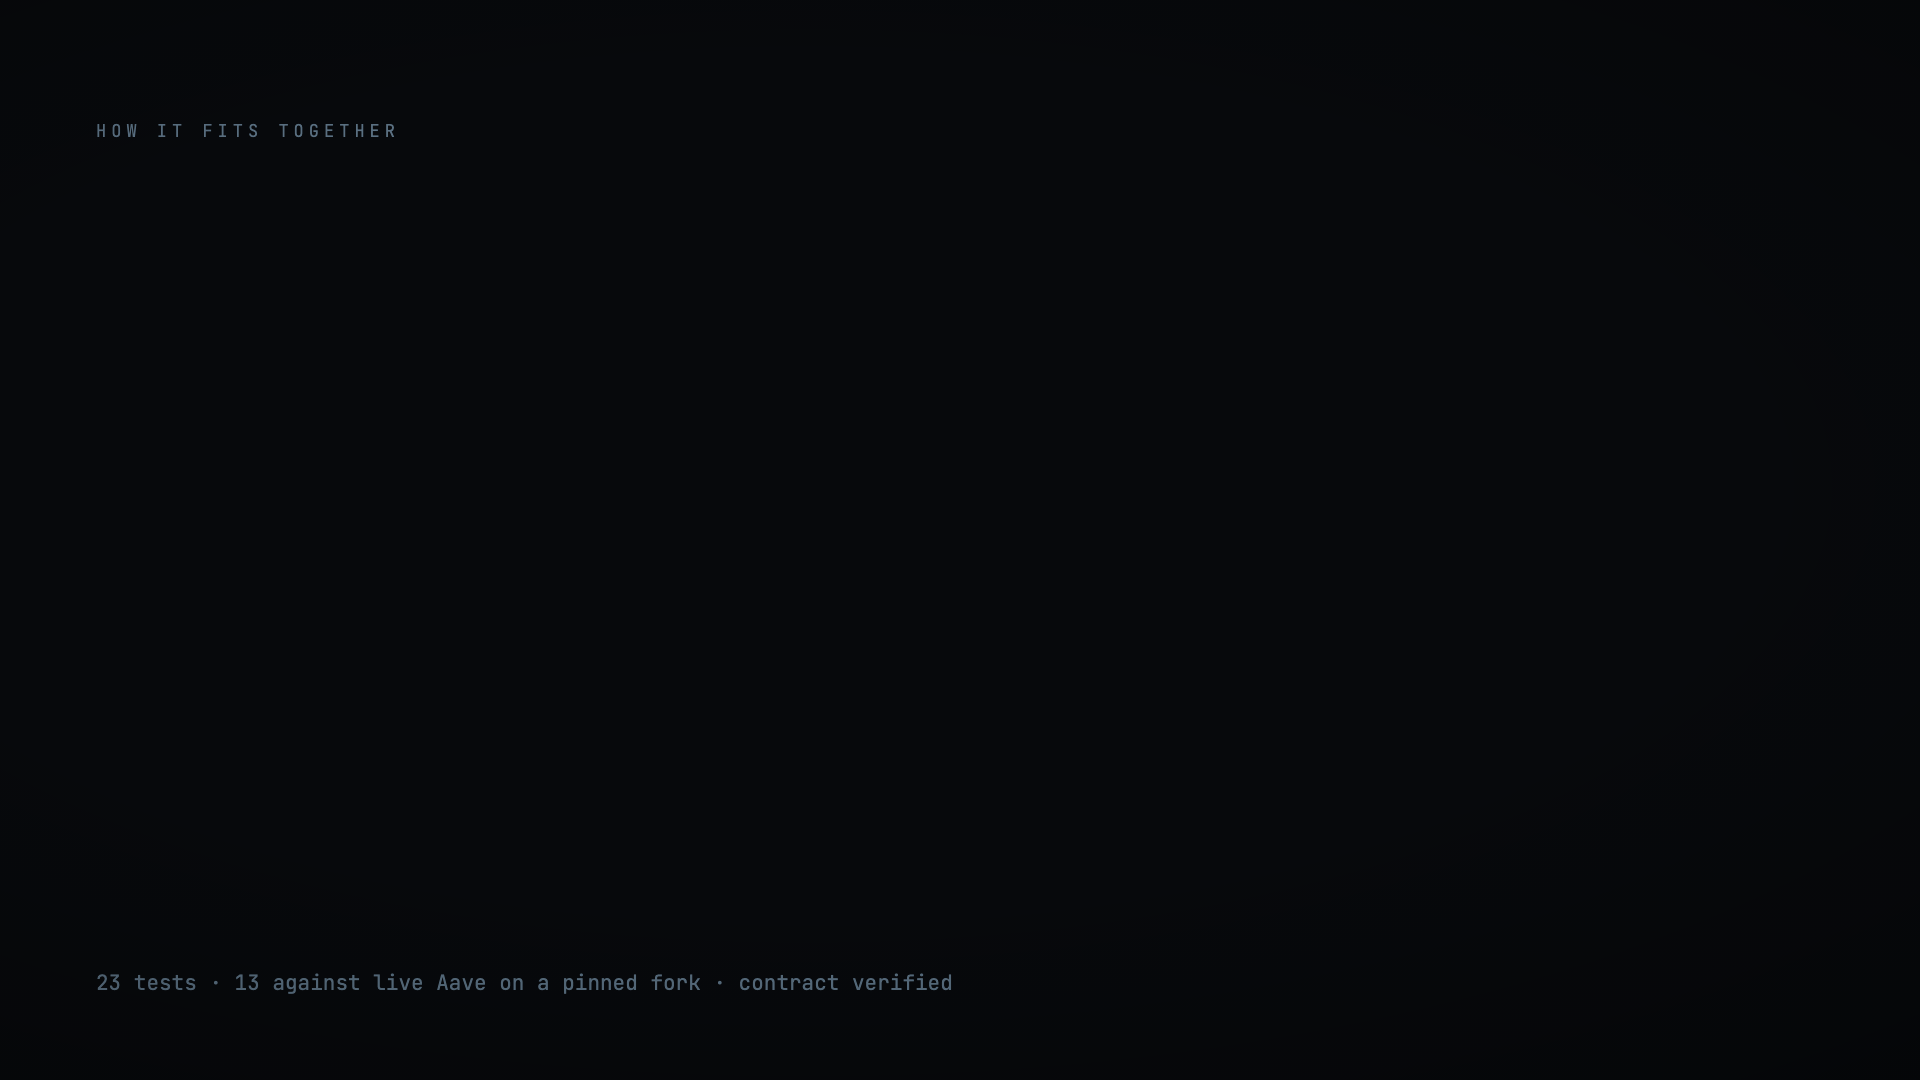
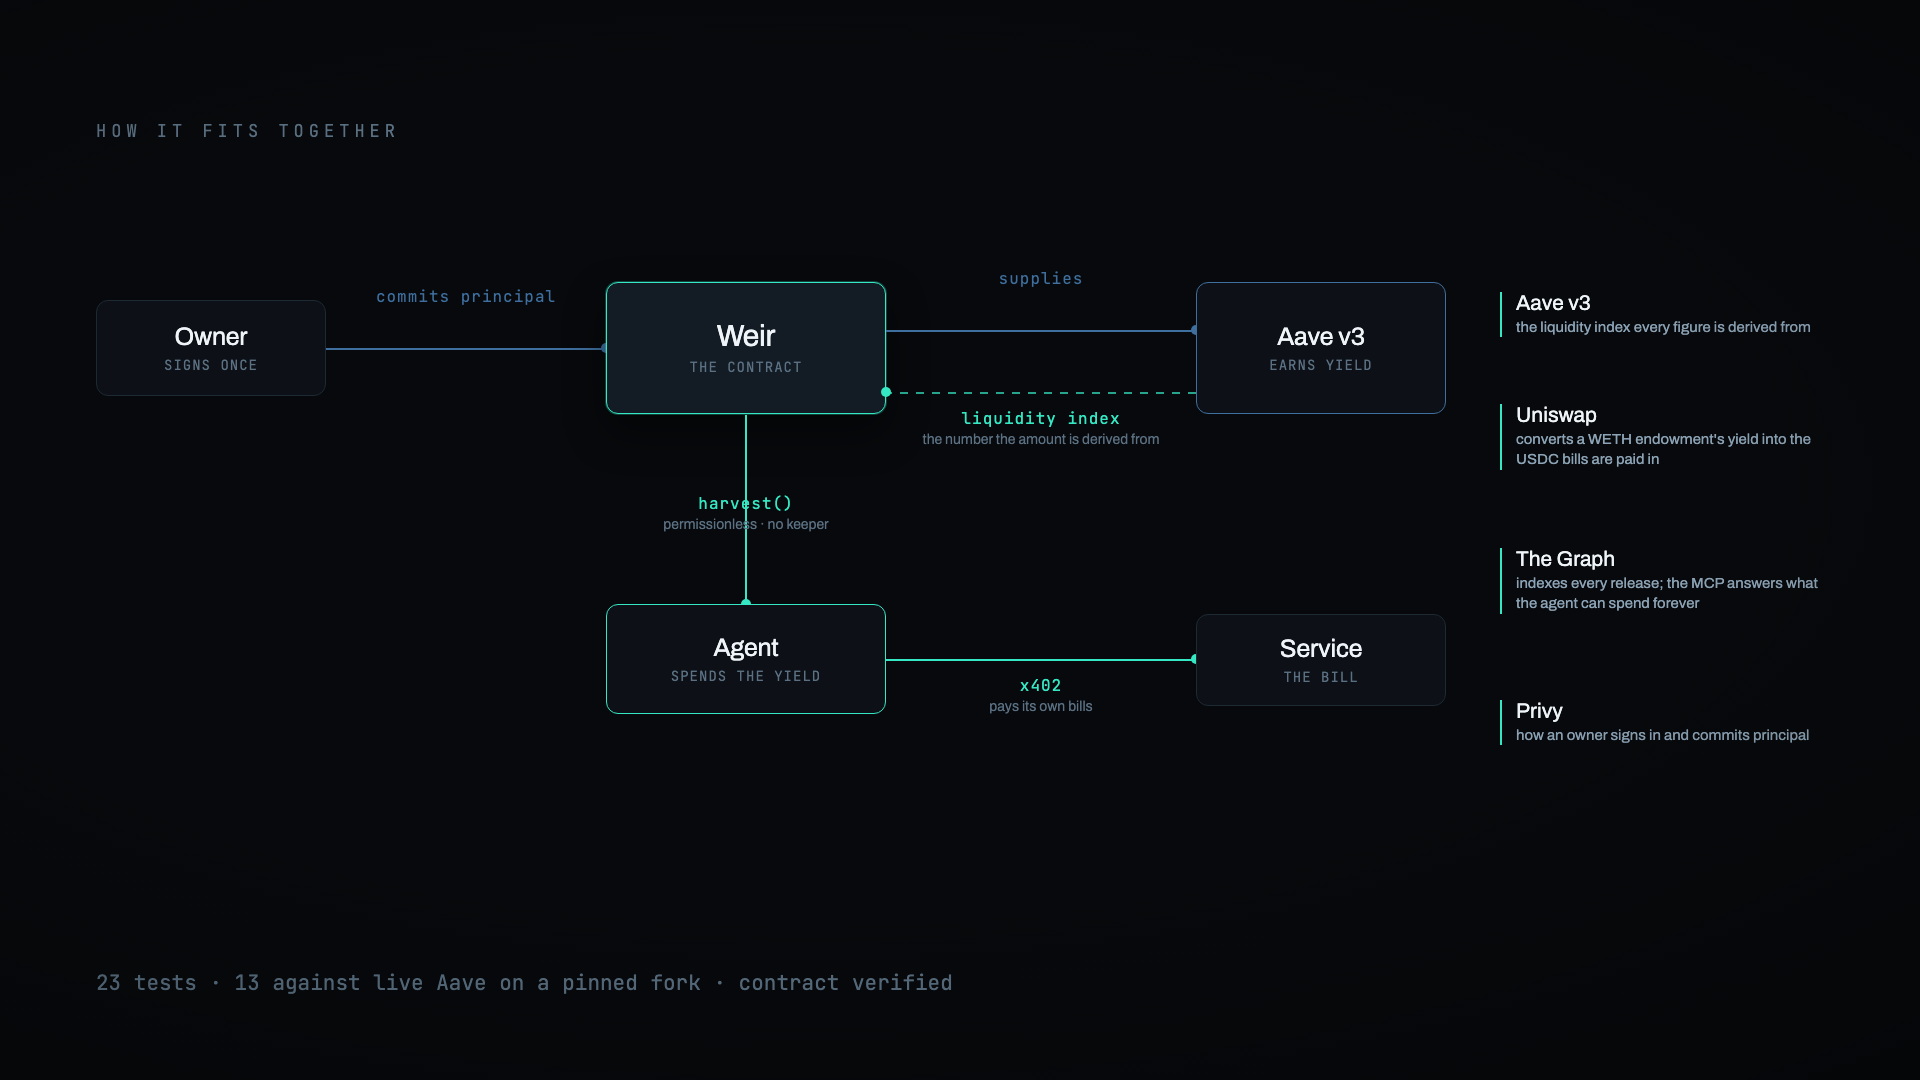
Screenshots: real captures instead of designed cards, and fix the empty one
The architecture image shipped empty. Its elements animate in with springs keyed
off the frame, the composition was registered with durationInFrames 1, and a
still renders frame 0 — where every spring evaluates to zero and the whole
diagram is at opacity 0. The file was 272KB of almost nothing. Fixed by giving
the composition real duration and taking the still at frame 140, after every
stage settles.

The other criticism was the sharper one: three of five were not screenshots.
They were designed cards with serif headlines and explanatory prose, which read
as pitch slides. The data in them was real, but presentation as marketing turns
evidence into a claim.

Replaced with genuine captures. A terminal showing the agent's ledger and the
MCP verdict. A terminal showing cast against the deployed contract, returning
committed 250000.000000, held 250001.654156, accrued 1.654374, harvestable true
— read from Base Sepolia while making the image. A terminal showing forge test,
10 passing including the guarantee fuzzed 256 times. No headlines, no prose, no
persuasion: a terminal drawn as a terminal.

Every line in them is verbatim. The harvestable() call was in the draft before
it had been run, so it was run and it returns true; an unverified line in an
evidence image is the one thing these cannot contain.

Claude-Session: https://claude.ai/code/session_01Mf67sfjXgnfBGs34NPhdP7

diff --git a/video/src/Terminal.tsx b/video/src/Terminal.tsx
@@ -1,0 +1,214 @@
+import React from "react";
+import { AbsoluteFill } from "remotion";
+import { mono } from "./fonts";
+
+/**
+ * A terminal, drawn as a terminal. Every line below is verbatim output from a
+ * command actually run against the live contract, the live subgraph, or the
+ * test suite — nothing is mocked up and nothing is worded for effect. The point
+ * of these images is evidence, so the moment they carry marketing copy they
+ * stop being evidence.
+ */
+
+const T = {
+  bg: "#0b0e11",
+  chrome: "#171b20",
+  edge: "#252b32",
+  fg: "#d6dde4",
+  dim: "#7d8b98",
+  green: "#38d39f",
+  cyan: "#41c5e0",
+  yellow: "#e2b341",
+  blue: "#6aa9e9",
+  magenta: "#c08cf0",
+};
+
+type Line = { t: string; c?: string; b?: boolean };
+
+export const Term: React.FC<{
+  title: string;
+  lines: Line[];
+  w: number;
+  h: number;
+  size?: number;
+}> = ({ title, lines, w, h, size = 19 }) => (
+  <AbsoluteFill style={{ background: "#05070a", alignItems: "center", justifyContent: "center" }}>
+    <div
+      style={{
+        width: w,
+        height: h,
+        background: T.bg,
+        borderRadius: 12,
+        overflow: "hidden",
+        border: `1px solid ${T.edge}`,
+        boxShadow: "0 30px 80px rgba(0,0,0,.6)",
+        display: "flex",
+        flexDirection: "column",
+      }}
+    >
+      <div
+        style={{
+          height: 44,
+          flexShrink: 0,
+          background: T.chrome,
+          borderBottom: `1px solid ${T.edge}`,
+          display: "flex",
+          alignItems: "center",
+          padding: "0 16px",
+          position: "relative",
+        }}
+      >
+        {["#ff5f57", "#febc2e", "#28c840"].map((c) => (
+          <div
+            key={c}
+            style={{ width: 12, height: 12, borderRadius: 6, background: c, marginRight: 8 }}
+          />
+        ))}
+        <div
+          style={{
+            position: "absolute",
+            left: 0,
+            right: 0,
+            textAlign: "center",
+            fontFamily: mono,
+            fontSize: 14,
+            color: T.dim,
+          }}
+        >
+          {title}
+        </div>
+      </div>
+
+      <div
+        style={{
+          flex: 1,
+          padding: "22px 26px",
+          fontFamily: mono,
+          fontSize: size,
+          lineHeight: 1.62,
+          color: T.fg,
+          whiteSpace: "pre",
+          overflow: "hidden",
+        }}
+      >
+        {lines.map((l, i) => (
+          <div key={i} style={{ color: l.c ?? T.fg, fontWeight: l.b ? 700 : 400 }}>
+            {l.t === "" ? " " : l.t}
+          </div>
+        ))}
+      </div>
+    </div>
+  </AbsoluteFill>
+);
+
+/** the shell prompt, as oh-my-zsh actually renders it */
+const p = (cmd: string): Line[] => [
+  { t: `➜  weir git:(main) ${cmd}`, c: T.green },
+];
+
+/**
+ * The guarantee, checked against the deployed contract. These are the values
+ * the chain returned when this image was made.
+ */
+export const TermChain: React.FC = () => (
+  <Term
+    title="weir — cast — 104×26"
+    w={1560}
+    h={690}
+    lines={[
+      ...p("cast call $WEIR 'solvency(address)(uint256,uint256)' $USDC \\"),
+      { t: "       --rpc-url https://sepolia.base.org", c: T.green },
+      { t: "250000000000 [2.5e11]", c: T.blue },
+      { t: "250001654156 [2.5e11]", c: T.green },
+      { t: "" },
+      { t: "# committed 250000.000000  <=  held 250001.654156", c: T.dim },
+      { t: "# the inequality the whole product rests on, straight off the chain", c: T.dim },
+      { t: "" },
+      ...p("cast call $WEIR 'accrued(uint256)(uint256)' 1 \\"),
+      { t: "       --rpc-url https://sepolia.base.org", c: T.green },
+      { t: "1654374 [1.654e6]", c: T.green },
+      { t: "" },
+      { t: "# 1.654374 USDC releasable. principal is not in this number and", c: T.dim },
+      { t: "# cannot be: it is derived from Aave's index, not chosen by a caller.", c: T.dim },
+      { t: "" },
+      ...p("cast call $WEIR 'harvestable(uint256)(bool)' 1 --rpc-url $RPC"),
+      { t: "true", c: T.green },
+      { t: "" },
+      { t: "➜  weir git:(main) ", c: T.green },
+    ]}
+  />
+);
+
+/** The test suite, run in full. */
+export const TermTests: React.FC = () => (
+  <Term
+    title="weir/contracts — forge — 112×30"
+    w={1620}
+    h={790}
+    size={18}
+    lines={[
+      ...p("forge test"),
+      { t: "Compiling 25 files with Solc 0.8.35", c: T.dim },
+      { t: "Solc 0.8.35 finished in 2.16s", c: T.dim },
+      { t: "Compiler run successful!", c: T.dim },
+      { t: "" },
+      { t: "Ran 10 tests for test/Weir.unit.t.sol:WeirUnitTest" },
+      { t: "[PASS] testFuzz_accruedMatchesFormula(uint96,uint32) (runs: 256, μ: 414501)", c: T.green },
+      { t: "[PASS] testFuzz_principalNeverDipsBelowCommitted(uint96,uint16) (runs: 256)", c: T.green },
+      { t: "[PASS] testFuzz_solvencyAcrossManyHarvests(uint16,uint8) (runs: 256)", c: T.green },
+      { t: "[PASS] test_callerCanRaiseButNotLowerTheFloor() (gas: 588543)", c: T.green },
+      { t: "[PASS] test_closePaysWithheldReserveToAgent() (gas: 1487660)", c: T.green },
+      { t: "[PASS] test_falseReturningTokenIsRejected() (gas: 498491)", c: T.green },
+      { t: "[PASS] test_oracleFloorRejectsBadFill() (gas: 587883)", c: T.green },
+      { t: "[PASS] test_swapWithinTolerancePaysAgentInUsdc() (gas: 593008)", c: T.green },
+      { t: "[PASS] test_topUpSettlesAgentFirst() (gas: 574858)", c: T.green },
+      { t: "[PASS] test_zeroGrowthHarvestReverts() (gas: 420110)", c: T.green },
+      { t: "Suite result: ok. 10 passed; 0 failed; 0 skipped; finished in 546.95ms", c: T.green },
+      { t: "" },
+      { t: "# principalNeverDipsBelowCommitted is the guarantee itself, fuzzed", c: T.dim },
+      { t: "# 256 times. 13 more tests run against live Aave v3 on a pinned", c: T.dim },
+      { t: "# Base fork, no mocks — they found four bugs reading the code did not.", c: T.dim },
+      { t: "" },
+      { t: "➜  weir/contracts git:(main) ", c: T.green },
+    ]}
+  />
+);
+
+/** The agent, funding itself, and the question it asks before it spends. */
+export const TermAgent: React.FC = () => (
+  <Term
+    title="weir/agent — node — 108×28"
+    w={1600}
+    h={710}
+    size={17}
+    lines={[
+      ...p("cat agent-ledger.jsonl"),
+      { t: `{"event":"wake","agent":"0xD3EFF024…C4c2","chain":"Base Sepolia","chainId":84532}`, c: T.dim },
+      {
+        t: `{"event":"self_harvested","id":"1","amount":"0.016172",`,
+        c: T.green,
+      },
+      {
[1 lines of base64/hex data omitted]
+        c: T.green,
+      },
+      { t: `{"event":"budget","usdc":"0","releasedThisRun":"0.016172"}`, c: T.dim },
+      { t: "" },
+      { t: "# the agent called harvest() itself. no keeper, no relayer, no cron.", c: T.dim },
+      { t: "# principal after the harvest: unchanged.", c: T.dim },
+      { t: "" },
+      ...p("weir_sustainable_budget --agent 0xD3EFF024…C4c2 --burn 5"),
+      { t: "Sustainable budget for 0xD3EFF0247E7b61d75A34e1965939e736fe69C4c2" },
+      { t: "#1 USDC: principal 250,000 @ 1.406% -> 9.626996 USDC/day", c: T.cyan },
+      { t: "" },
+      { t: "TOTAL: 9.626996 /day   288.8099 /month   3513.85 /year", c: T.cyan },
+      { t: "Principal is never spendable. This figure is what the endowment", c: T.dim },
+      { t: "throws off and can be spent forever.", c: T.dim },
+      { t: "" },
+      { t: "VERDICT: PERPETUAL. A burn of 5/day is 51.9% of income.", c: T.green, b: true },
+      { t: "This agent never runs out.", c: T.green, b: true },
+      { t: "" },
+      { t: "➜  weir/agent git:(main) ", c: T.green },
+    ]}
+  />
+);

diff --git a/video/src/Root.tsx b/video/src/Root.tsx
@@ -3,6 +3,7 @@ import { Composition } from "remotion";
 import { WeirDemo } from "./WeirDemo";
 import { LogoA, LogoB, LogoC, LogoCompare, Cover } from "./Brand";
 import { ShotFlow, ShotHarvest, ShotMcp } from "./Shots";
+import { TermChain, TermTests, TermAgent } from "./Terminal";
 import { FPS, SCENES, sec } from "./constants";
 
 const total = Object.values(SCENES).reduce((a, b) => a + sec(b as number), 0);
@@ -16,7 +17,10 @@ export const RemotionRoot: React.FC = () => (
     <Composition id="LogoC" component={LogoC} {...still} width={512} height={512} />
     <Composition id="LogoCompare" component={LogoCompare} {...still} width={1400} height={620} />
     <Composition id="Cover" component={Cover} {...still} width={1280} height={720} />
-    <Composition id="ShotFlow" component={ShotFlow} {...still} width={1920} height={1080} />
+    <Composition id="ShotFlow" component={ShotFlow} durationInFrames={150} fps={FPS} width={1920} height={1080} />
+    <Composition id="TermChain" component={TermChain} {...still} width={1700} height={810} />
+    <Composition id="TermTests" component={TermTests} {...still} width={1760} height={910} />
+    <Composition id="TermAgent" component={TermAgent} {...still} width={1740} height={830} />
     <Composition id="ShotHarvest" component={ShotHarvest} {...still} width={1600} height={1000} />
     <Composition id="ShotMcp" component={ShotMcp} {...still} width={1600} height={880} />
   </>

diff --git a/submission/SUBMISSION-FORM.md b/submission/SUBMISSION-FORM.md
@@ -102,19 +102,23 @@ generic block, and it survives down to 32px in a gallery of hundreds.*
 
 > `submission/images/weir-cover-1280x720.png`
 
-**Screenshots** — minimum 3 required. Upload all five, in this order. Each one carries a
-single claim on its own, because a judge scrolling a gallery sees it without the video.
+**Screenshots** — minimum 3 required. Upload the first five, in this order; the sixth is a
+spare. Each is a real capture — live app pixels, or verbatim output from a command actually
+run against the deployed contract — rather than a designed card, because the job of these is
+evidence and a slide is not evidence.
 
-1. `images/01-live-app-index-and-solvency.png` — the live app: the Aave index every figure is
-   derived from, and the solvency proof `committed ≤ held` sitting under it
-2. `images/02-endowment-principal-held.png` — the endowment itself: 250,000 held back and
-   never releasable, the accrual spilling over it, and the release anyone may press
-3. `images/03-agent-paid-itself.png` — the agent harvesting its own yield on Base Sepolia,
-   with the transaction and the ledger line, principal unchanged
-4. `images/04-what-can-i-spend-forever.png` — the MCP answering the question an endowed agent
-   actually needs: verdict PERPETUAL, live output from the subgraph
-5. `images/05-how-it-fits-together.png` — the architecture, with each partner on the edge it
+1. `images/01-live-app-index-and-solvency.png` — the live app: the Aave index every figure
+   derives from, with the solvency proof `committed ≤ held` beneath it
+2. `images/02-endowment-principal-held.png` — the endowment: 250,000 held back and never
+   releasable, the accrual spilling over it, and the release anyone may press
+3. `images/03-the-agent-paid-itself.png` — the agent's ledger showing it called `harvest()`
+   itself with the transaction, then the MCP returning `VERDICT: PERPETUAL`
+4. `images/04-the-guarantee-checked-on-chain.png` — `cast` against the deployed contract:
+   committed 250000.000000 ≤ held 250001.654156, accrued 1.654374 USDC, harvestable true
+5. `images/05-how-it-fits-together.png` — the architecture, each partner on the edge it
    genuinely touches
+6. `images/06-tests-including-the-fuzzed-invariant.png` — *spare.* 10 tests passing, including
+   `testFuzz_principalNeverDipsBelowCommitted` at 256 runs: the guarantee itself, fuzzed
 
 ## 3 · Tech stack
 
